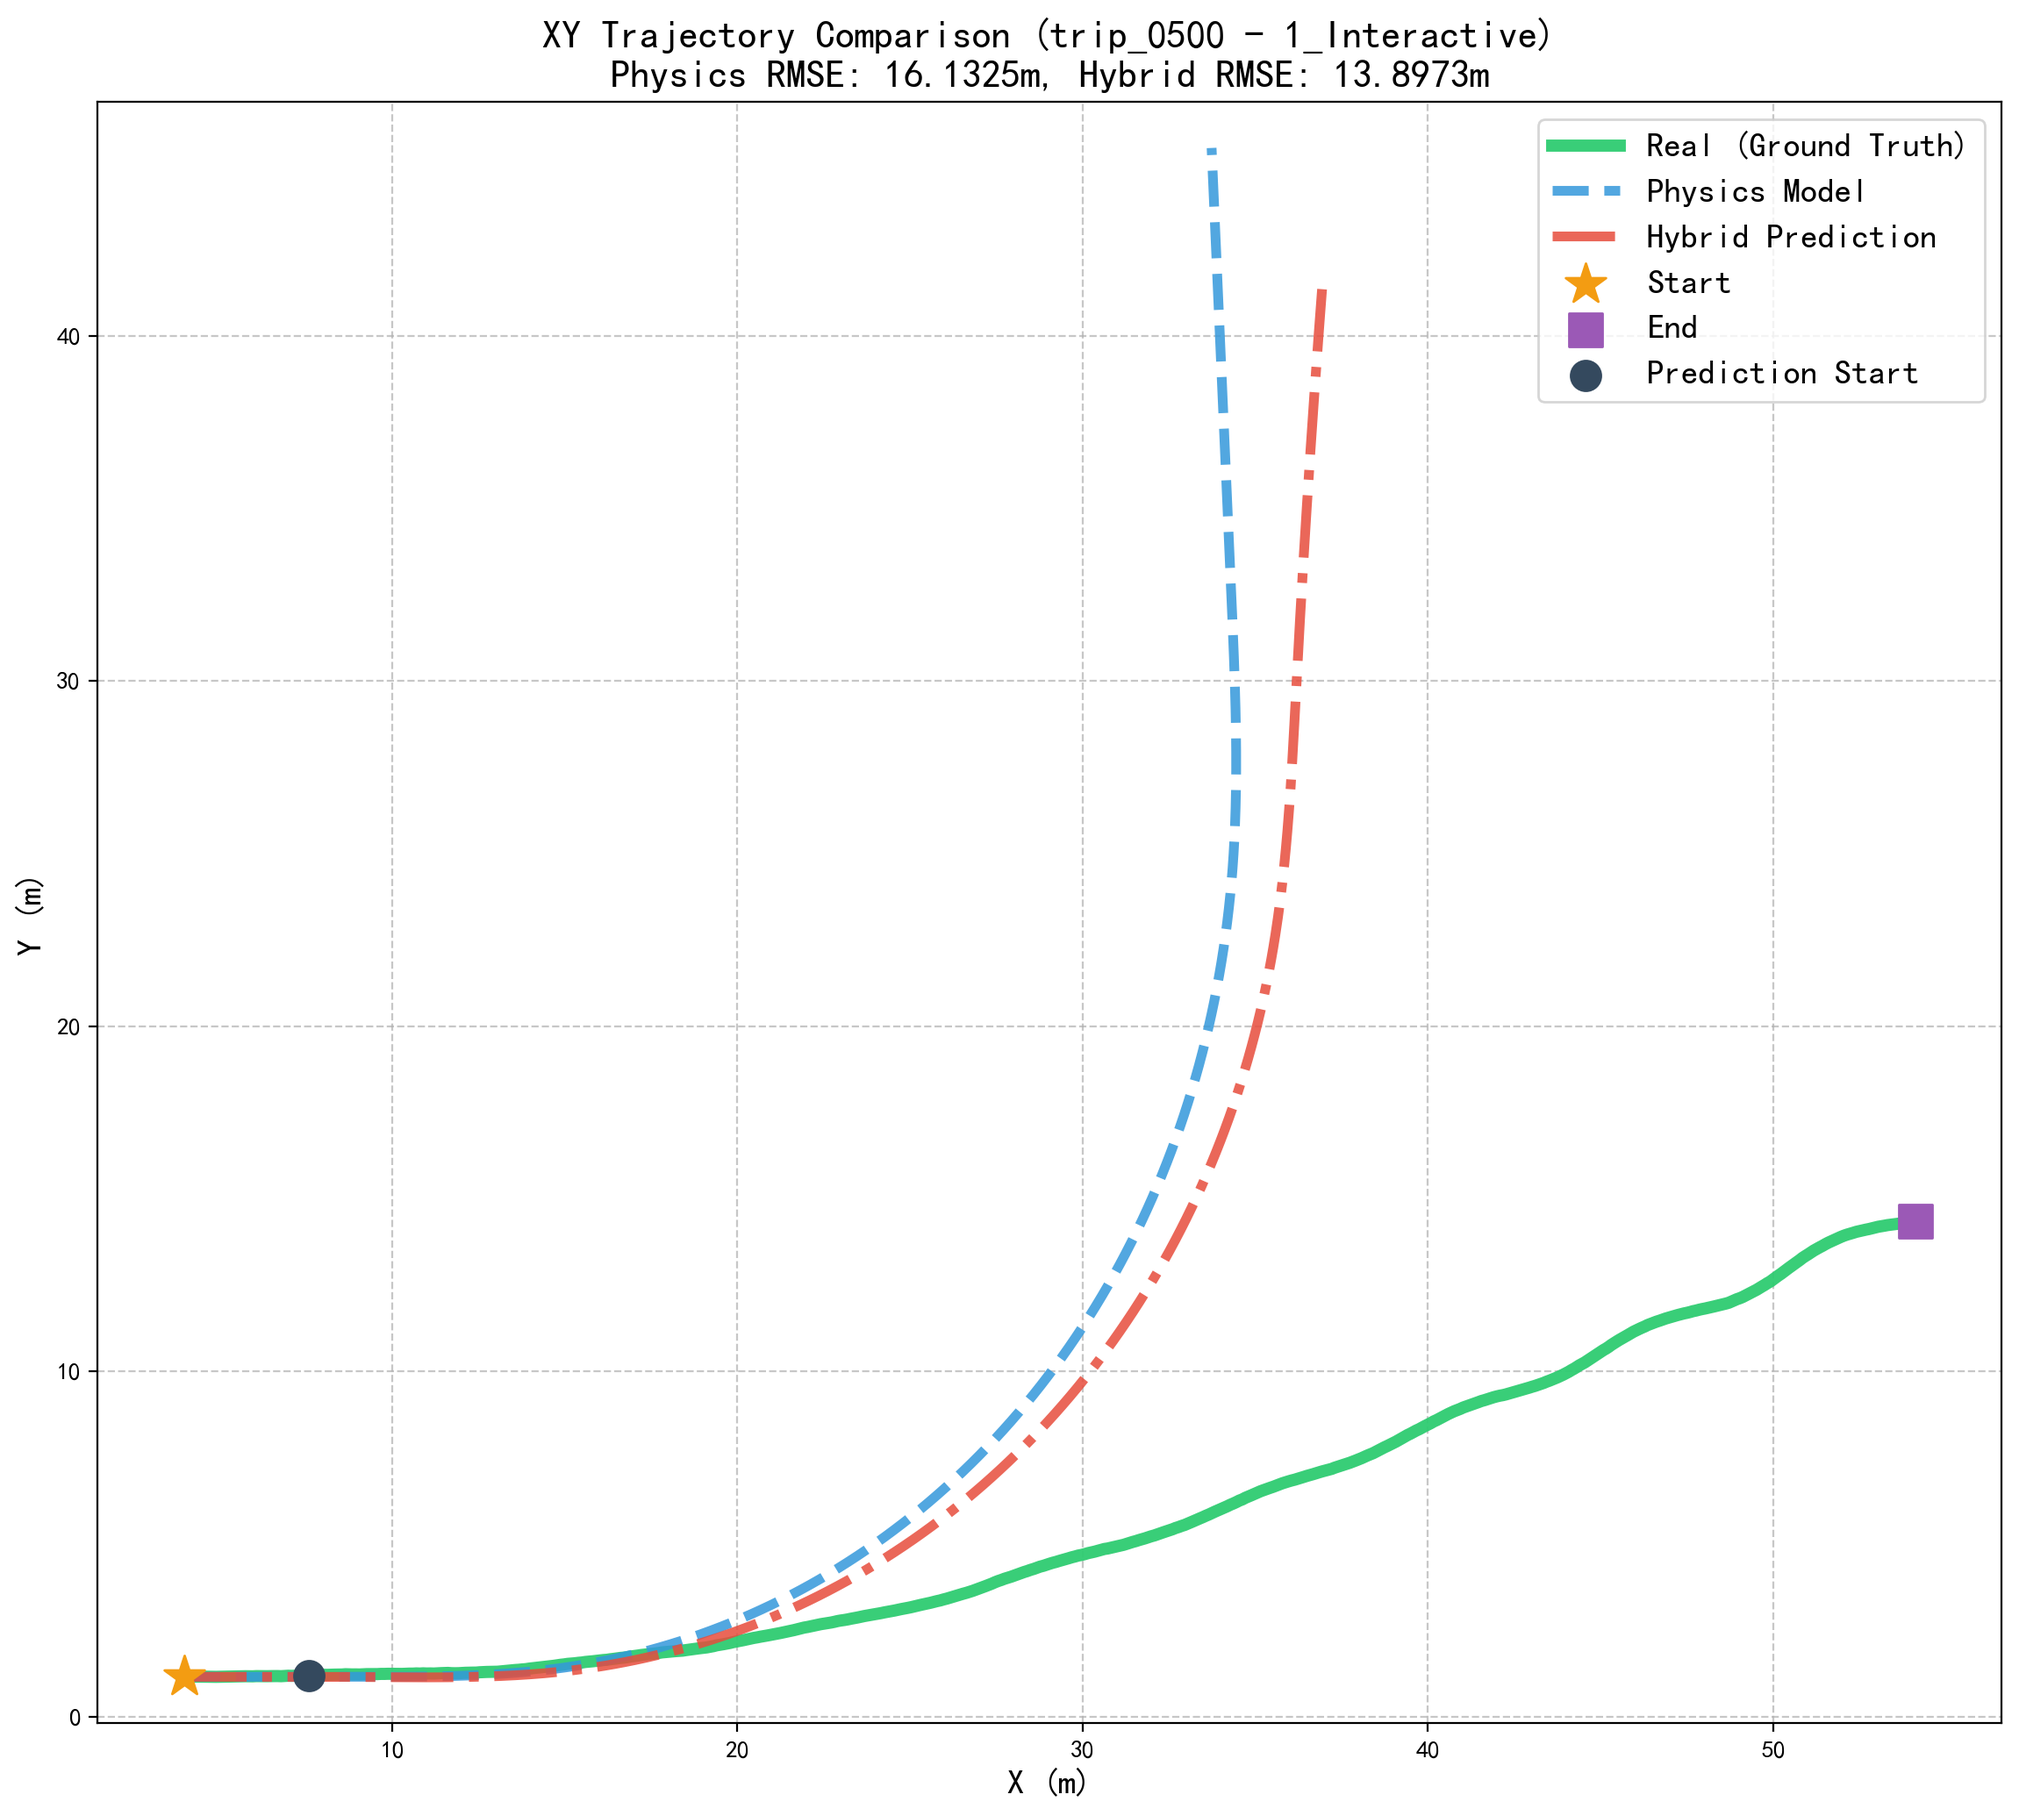
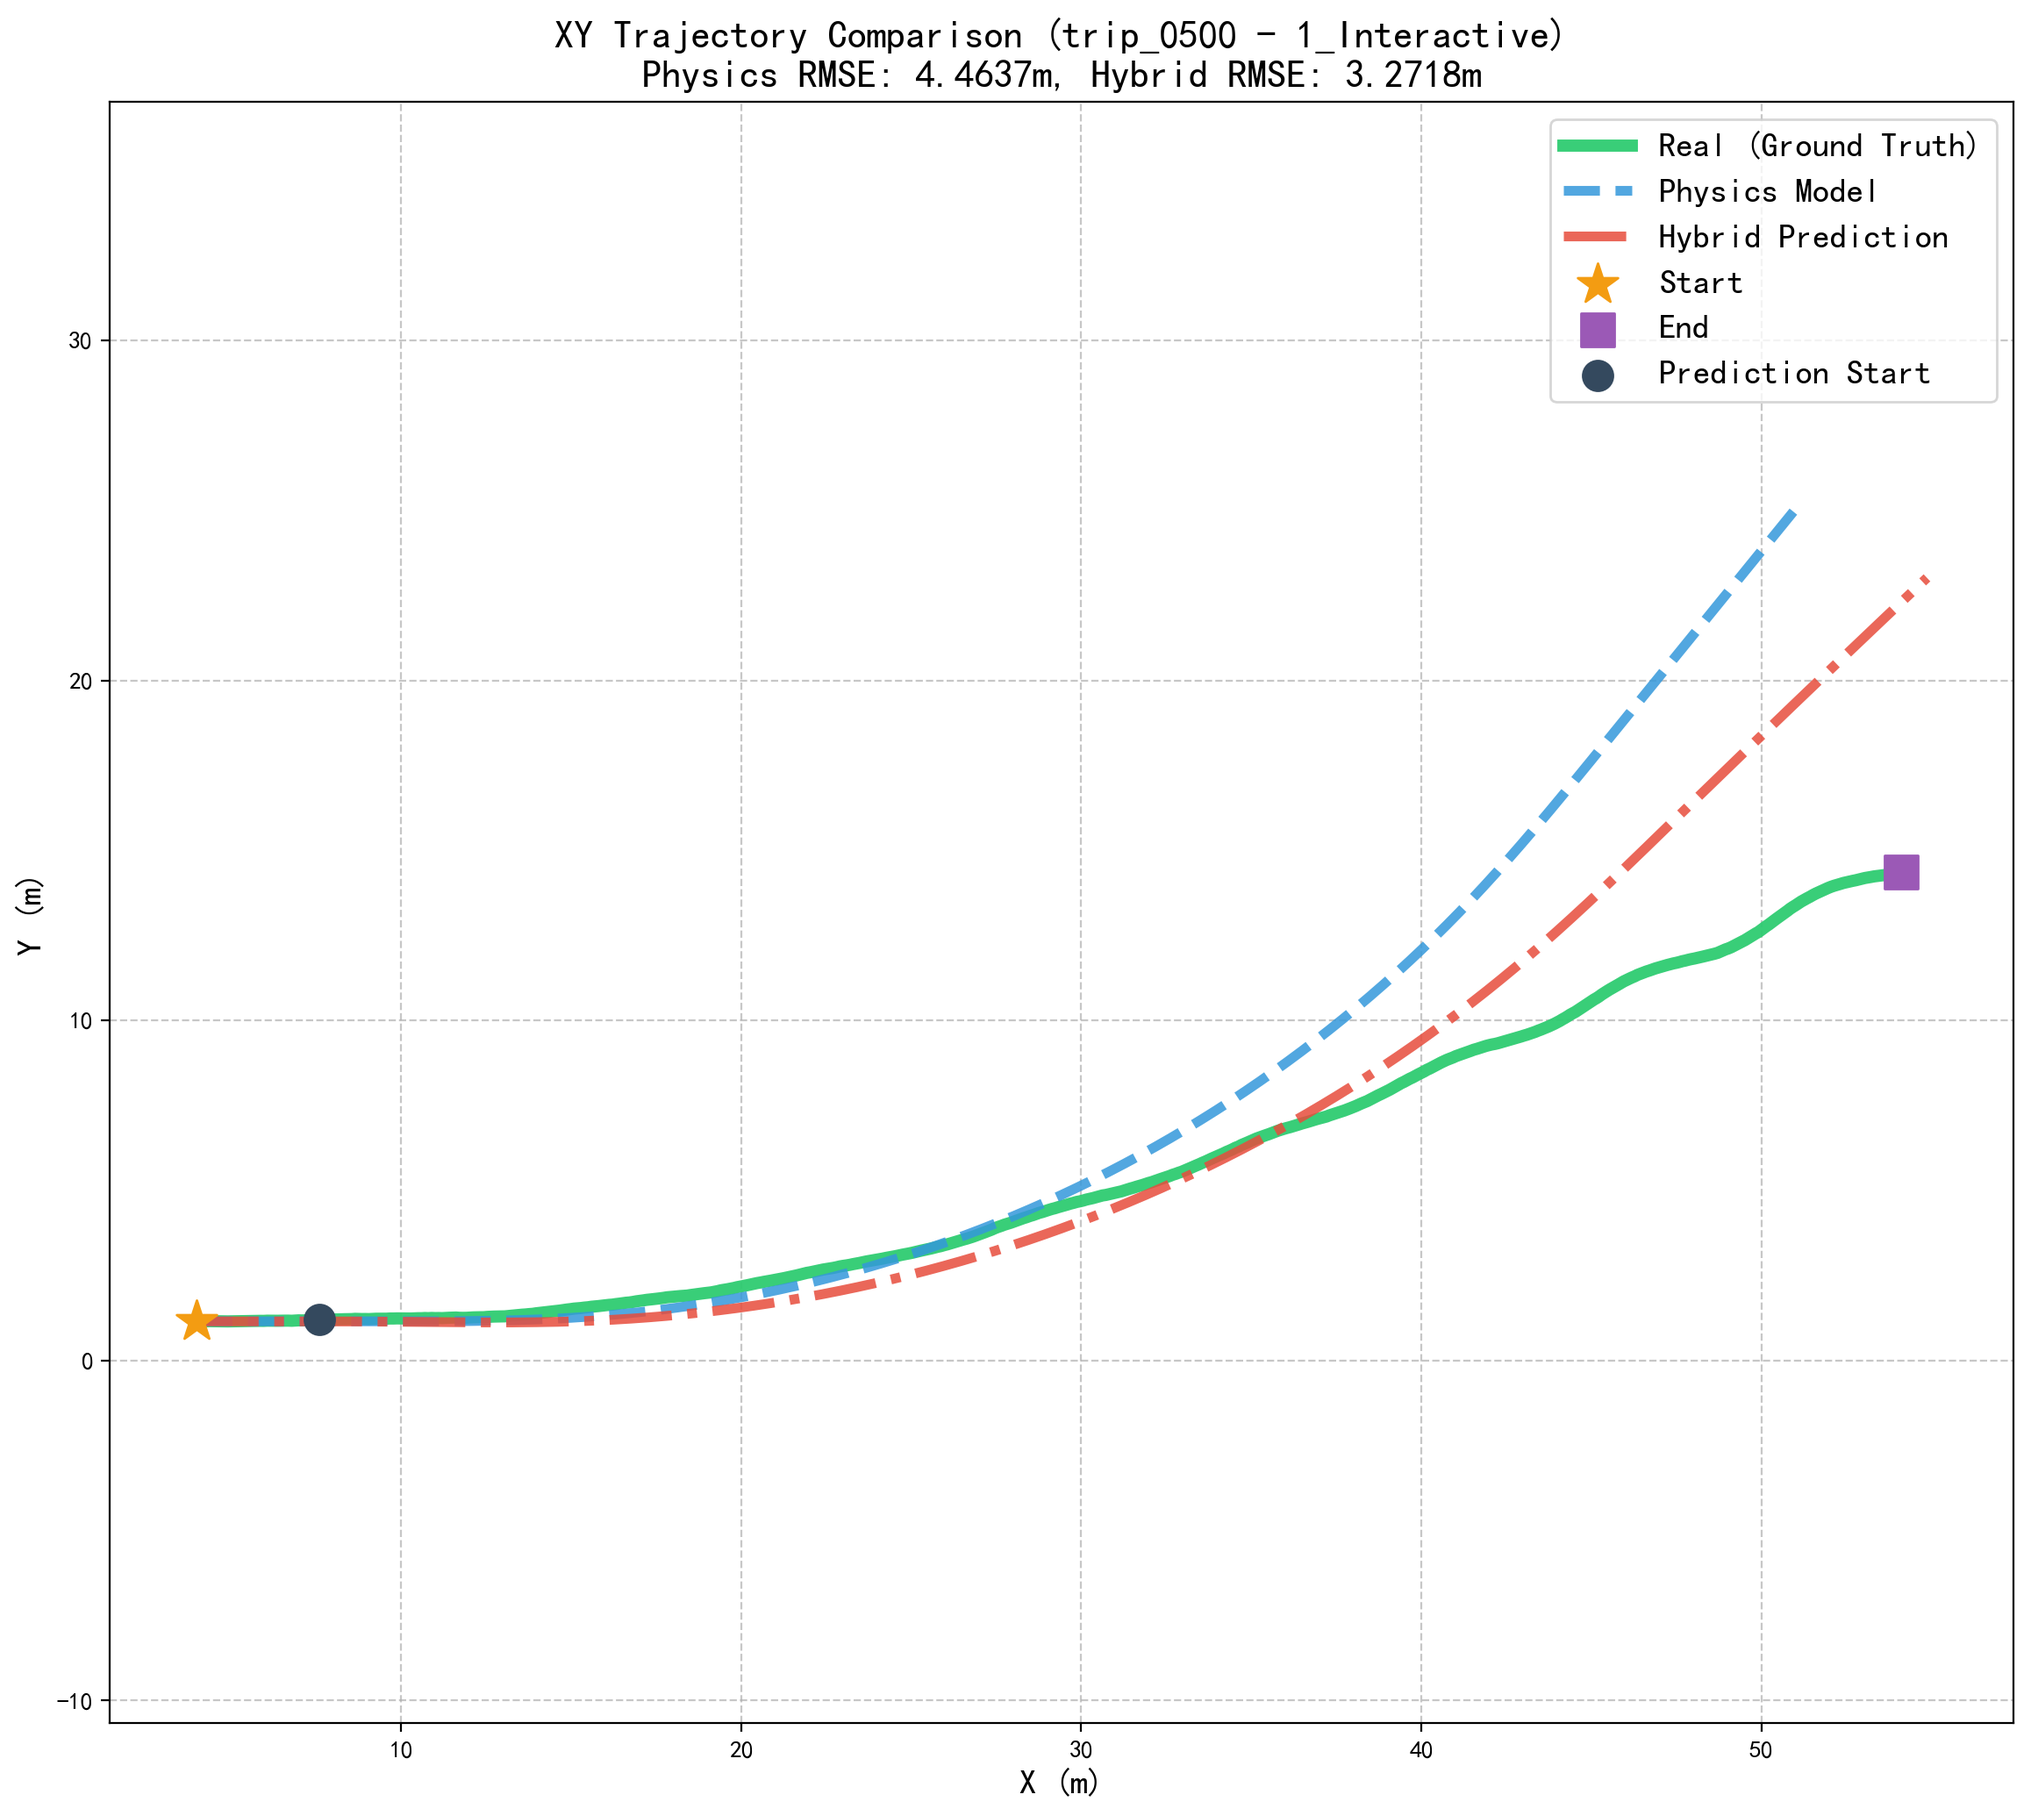
0606_04

diff --git a/Inference_mul.py b/Inference_mul.py
@@ -38,38 +38,87 @@ class Gen4CarConfig(CarConfig):
     rear_corner_stiffness: float = 62190
 
 
-class SimpleBicycleModel:
-    def __init__(self):
-        self.l_f = Gen4CarConfig.base_to_fa
-        self.l_r = Gen4CarConfig.base_to_ra
-        self.wheel_base = Gen4CarConfig.wheel_base
-        self.steering_gear_ratio = Gen4CarConfig.steering_gear_ratio
-        self.mass = Gen4CarConfig.mass
-        self.c_af = Gen4CarConfig.front_corner_stiffness
-        self.c_ar = Gen4CarConfig.rear_corner_stiffness
-        self.i_z = Gen4CarConfig.inertial_z
-    
-    def simulate(self, current_state, control, dt=0.01):
-        vlon, vlat, yaw, vyaw = current_state
-        acc, angle = control
-        
-        delta = angle / self.steering_gear_ratio
-        
-        new_vlon = vlon + acc * dt
-        
-        v = np.sqrt(vlon**2 + vlat**2) if vlon != 0 else 0.1
-        if v > 0:
-            yaw_rate = (vlon * np.tan(delta)) / self.wheel_base
-            new_vyaw = yaw_rate
+class State(np.ndarray):
+    def __new__(cls, input_array):
+        obj = np.asarray(input_array).view(cls)
+        return obj
+
+class ControlInput(np.ndarray):
+    def __new__(cls, input_array):
+        obj = np.asarray(input_array).view(cls)
+        return obj
+
+
+class LateralDynamicBicycle:
+    """
+    运动学自行车模型 (Kinematic Bicycle Model) - 与训练时使用的模型一致
+    状态: [x, y, vx, vy, psi, r]
+    控制: [a, delta]   (a: 纵向加速度, delta: 前轮转角)
+    """
+    States = ['x', 'y', 'vx', 'vy', 'psi', 'r']
+    ControlInputs = ['a', 'delta']
+
+    def __init__(self, parameters):
+        self.wheelbase = parameters['wheelbase']
+        self.l_f = parameters.get('l_f', self.wheelbase/2)
+        self.l_r = parameters.get('l_r', self.wheelbase/2)
+        self.steering_gear_ratio = parameters.get('steering_gear_ratio', 1.0)
+
+    def State(self, data):
+        return State(data)
+
+    def ControlInput(self, data):
+        return ControlInput(data)
+
+    def _dynamics(self, state, control):
+        """运动学模型导数，用于 RK4 积分"""
+        x, y, vx, vy, psi, r = state
+        a, delta = control
+        if abs(vx) < 0.01:
+            vx = 0.01
+        r_desired = vx * np.tan(delta) / self.wheelbase
+        tau = 0.05
+        r_dot = (r_desired - r) / tau
+        vx_dot = a
+        vy_dot = 0.0
+        x_dot = vx * np.cos(psi) - vy * np.sin(psi)
+        y_dot = vx * np.sin(psi) + vy * np.cos(psi)
+        psi_dot = r
+        return np.array([x_dot, y_dot, vx_dot, vy_dot, psi_dot, r_dot])
+
+    def simulate(self, initial_state, control_input, n=1, dt=0.01):
+        """
+        使用 4 阶 Runge-Kutta 积分 n 步
+        initial_state: (6,) 或 (6,1)
+        control_input: (2,) 或 (2,1)
+        return: traj (6, n+1), success
+        """
+        if initial_state.ndim == 1:
+            init = initial_state.reshape(-1, 1)
         else:
-            new_vyaw = vyaw
-        
-        new_vlat = vlat + (vlon * new_vyaw) * dt
-        
-        new_yaw = yaw + vyaw * dt
-        new_yaw = (new_yaw + np.pi) % (2 * np.pi) - np.pi
-        
-        return np.array([new_vlon, new_vlat, new_yaw, new_vyaw])
+            init = initial_state
+        if control_input.ndim == 1:
+            ctrl = control_input.reshape(-1, 1)
+        else:
+            ctrl = control_input
+
+        traj = np.zeros((6, n+1))
+        traj[:, 0] = init.flatten()
+
+        for step in range(n):
+            cur = traj[:, step]
+            a = ctrl[0, 0] if ctrl.shape[1] == 1 else ctrl[0, step]
+            delta = ctrl[1, 0] if ctrl.shape[1] == 1 else ctrl[1, step]
+            control = np.array([a, delta])
+
+            k1 = self._dynamics(cur, control)
+            k2 = self._dynamics(cur + 0.5*dt*k1, control)
+            k3 = self._dynamics(cur + 0.5*dt*k2, control)
+            k4 = self._dynamics(cur + dt*k3, control)
+            next_state = cur + dt * (k1 + 2*k2 + 2*k3 + k4) / 6
+            traj[:, step+1] = next_state
+
+        return traj, True
 
 
 class InferModel:
@@ -90,7 +139,13 @@ class InferModel:
         self.feature_name = feature_name
         self.control_name = control_name
         self.model_flag = model_flag
-        self.phy_model = SimpleBicycleModel()
+        phy_params = {
+            'wheelbase': Gen4CarConfig.wheel_base,
+            'l_f': Gen4CarConfig.base_to_fa,
+            'l_r': Gen4CarConfig.base_to_ra,
+            'steering_gear_ratio': Gen4CarConfig.steering_gear_ratio
+        }
+        self.phy_model = LateralDynamicBicycle(phy_params)
         net_model = self.load_trained_model(model_path, model_config, device)
         self.model = net_model.to(device)
         self.model.eval()
@@ -249,23 +304,42 @@ class InferModel:
         current_states_T = current_states[-1, :].T.reshape(-1, 1)
         xy_data_T = xy_data_t.T
 
-        current_state_4d = current_states_T[:4, :].flatten()
-        control_2d = control_T[:2, :].flatten()
-        
-        physics_next = self.phy_model.simulate(current_state_4d, control_2d, dt=self.dt)
-        
-        vlon, vlat, yaw, vyaw = physics_next
+        # 提取当前状态 (vlon, vlat, yaw, vyaw)
+        vlon, vlat, yaw, vyaw = current_states_T[:4, :].flatten()
+        # 转换为 LateralDynamicBicycle 需要的 6D 状态: [x, y, vx, vy, psi, r]
+        x, y = xy_data_T[0, 0], xy_data_T[1, 0]
         vx = vlon * np.cos(yaw) - vlat * np.sin(yaw)
         vy = vlon * np.sin(yaw) + vlat * np.cos(yaw)
+        psi = yaw
+        r = vyaw
+        initial_state_6d = np.array([x, y, vx, vy, psi, r])
         
-        new_x = xy_data_T[0, :] + vx * self.dt
-        new_y = xy_data_T[1, :] + vy * self.dt
+        # 提取控制量 (acc, angle) -> 转换为 (a, delta)
+        acc, angle = control_T[:2, :].flatten()
+        delta = angle / self.phy_model.steering_gear_ratio
+        control_input = np.array([acc, delta])
         
-        acc_lon = (physics_next[0] - current_state_4d[0]) / self.dt
-        acc_lat = (physics_next[1] - current_state_4d[1]) / self.dt
-        acc_yaw = (physics_next[3] - current_state_4d[3]) / self.dt
-
-        xy_data_t = np.array([[new_x[0], new_y[0]]])
+        # 调用物理模型模拟一步 (n=1)
+        traj_6d, success = self.phy_model.simulate(initial_state_6d, control_input, n=1, dt=self.dt)
+        
+        # 提取下一时刻的 6D 状态并转换回 4D (vlon, vlat, yaw, vyaw)
+        next_state_6d = traj_6d[:, 1]
+        next_x, next_y, next_vx, next_vy, next_psi, next_r = next_state_6d
+        
+        # 转换回车体坐标系
+        next_vlon = next_vx * np.cos(next_psi) + next_vy * np.sin(next_psi)
+        next_vlat = -next_vx * np.sin(next_psi) + next_vy * np.cos(next_psi)
+        next_yaw = next_psi
+        next_vyaw = next_r
+        
+        # 计算加速度
+        acc_lon = (next_vlon - vlon) / self.dt
+        acc_lat = (next_vlat - vlat) / self.dt
+        acc_yaw = (next_vyaw - vyaw) / self.dt
+        
+        # 组合输出
+        physics_next = np.array([next_vlon, next_vlat, next_yaw, next_vyaw])
+        xy_data_t = np.array([[next_x, next_y]])
         phy_pred = np.concatenate([
             physics_next,
             np.array([acc_lon, acc_lat, acc_yaw])
